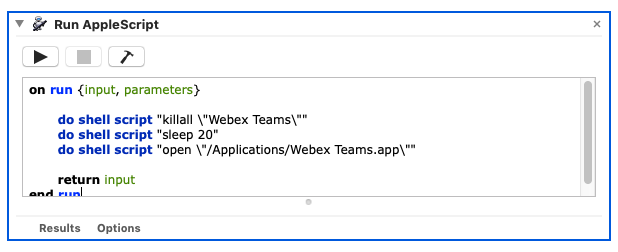
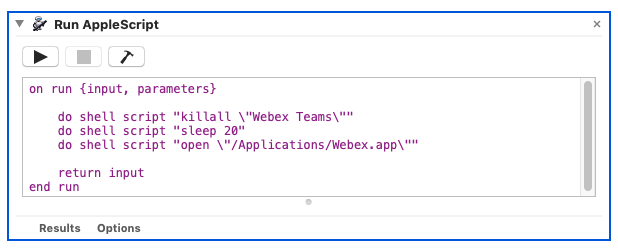
Updated to match current version of Webex / Webex Teams

diff --git a/readme.md b/readme.md
@@ -25,3 +25,8 @@ automatically restart Webex Teams every day.
 * https://stackoverflow.com/questions/132955/how-do-i-set-a-task-to-run-every-so-often
 * https://superuser.com/questions/373813/how-do-i-run-an-automator-action-shell-script-or-applescript-on-startup-in-os-x
 * https://superuser.com/questions/126907/how-can-i-get-a-script-to-run-every-day-on-mac-os-x
+
+# Updates
+* 2021/1/22 - Changed the start path to match the install location of the current version of Webex + Webex Teams
+  * Cisco has apparently consolidated some of the processes that run on a Mac.
+  * Also no longer sure if the memory issues persist.  This automator script may not be necessary now.
